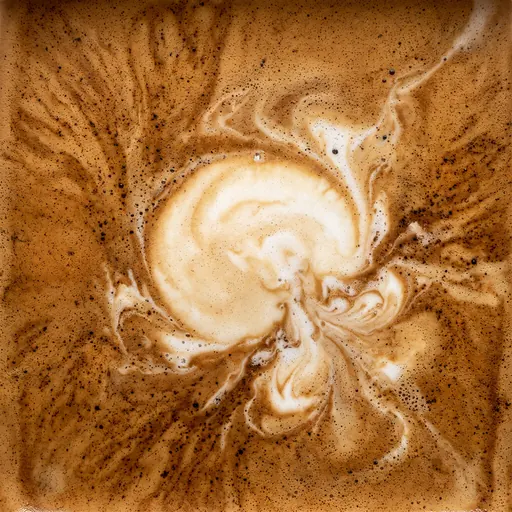
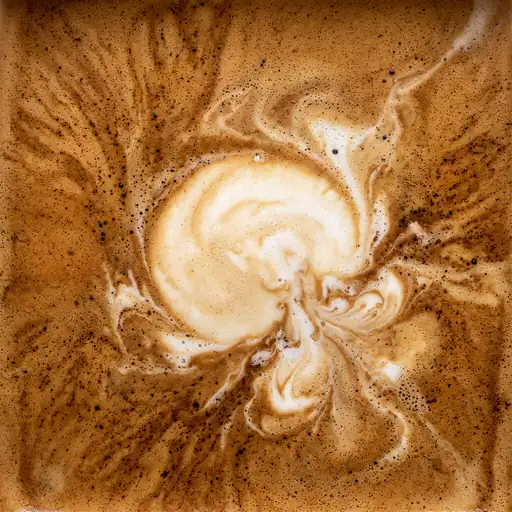
build: shrink the cup's coffee surface textures to 768 px at WebP quality 55
- Replace the 1024 px high-tier surfaces (306, 255, 167 KB) with 768 px copies (121, 94, 66 KB)
- Re-encode the 512 px low-tier surfaces at the same quality (54, 42, 32 KB)
- Point the media script, manifest, loader note and docs/brand.md at the new sizes

diff --git a/src/media/manifest.ts b/src/media/manifest.ts
@@ -27,9 +27,9 @@ export const MEDIA = {
   'rain-window': { kind: 'still', aspect: [43, 24], widths: [640, 1280, 1920, 2560] },
   'crema-macro': { kind: 'still', aspect: [43, 24], widths: [640, 1280, 1920, 2560] },
   'cup-still': { kind: 'still', aspect: [1, 1], widths: [640, 1280] },
-  'surface-espresso': { kind: 'texture', aspect: [1, 1], widths: [1024, 512] },
-  'surface-bloom': { kind: 'texture', aspect: [1, 1], widths: [1024, 512] },
-  'surface-rosetta': { kind: 'texture', aspect: [1, 1], widths: [1024, 512] },
+  'surface-espresso': { kind: 'texture', aspect: [1, 1], widths: [768, 512] },
+  'surface-bloom': { kind: 'texture', aspect: [1, 1], widths: [768, 512] },
+  'surface-rosetta': { kind: 'texture', aspect: [1, 1], widths: [768, 512] },
   'steam-loop-poster': { kind: 'still', aspect: [16, 9], widths: [640, 1280, 1920] },
   'steam-loop': { kind: 'loop', aspect: [16, 9], widths: [1920, 1280], poster: 'steam-loop-poster' },
 } as const satisfies Record<string, StillEntry | LoopEntry | TextureEntry>

diff --git a/src/scene/cup/HeroCup.tsx b/src/scene/cup/HeroCup.tsx
@@ -263,7 +263,7 @@ function texturesOf(scene: Object3D): Texture[] {
 /** The photographed coffee surfaces, in the order the look weighs them (liquidLook's `surface`). */
 const SURFACES: readonly TextureName[] = ['surface-espresso', 'surface-bloom', 'surface-rosetta']
 
-/** The surfaces' files: 1024 px on the high tier, the 512 px copies otherwise. */
+/** The surfaces' files: 768 px on the high tier, the 512 px copies otherwise. */
 function surfaceUrls(tier: string): string[] {
   return SURFACES.map((name) => {
     const widths = MEDIA[name].widths

diff --git a/docs/brand.md b/docs/brand.md
@@ -156,8 +156,10 @@ Notes:
   and H.264 MP4.
 - The coffee surfaces (owner decision 2026-11-27) replace the code-drawn crema, milk and latte art.
   Their masters are in the git-ignored `media-src/surfaces/`; `npm run media` makes square WebP
-  textures at 1024 px (used on the high tier: 306, 255 and 167 KB) and 512 px (other tiers: 78, 64
-  and 48 KB), loaded only with the cup's scene. The rosetta took four tries: `e6ea6e4a`,
+  textures at 768 px (used on the high tier: 121, 94 and 66 KB) and 512 px (other tiers: 54, 42
+  and 32 KB), WebP quality 55, loaded only with the cup's scene. They were 1024 px at quality 78
+  (306, 255 and 167 KB) until the owner's review of 2026-11-27; the cup is never more than about
+  700 CSS px across. The rosetta took four tries: `e6ea6e4a`,
   `512456b1` and `38d8d10f` were rejected before `8389ae19`. The shader grades all three
   photographs' browns to one hazel crema (owner review 2026-11-27: the photographs' own crema read
   rust-orange under the sodium lamp), leaving the milk and the art white. For the last cup the owner chose
